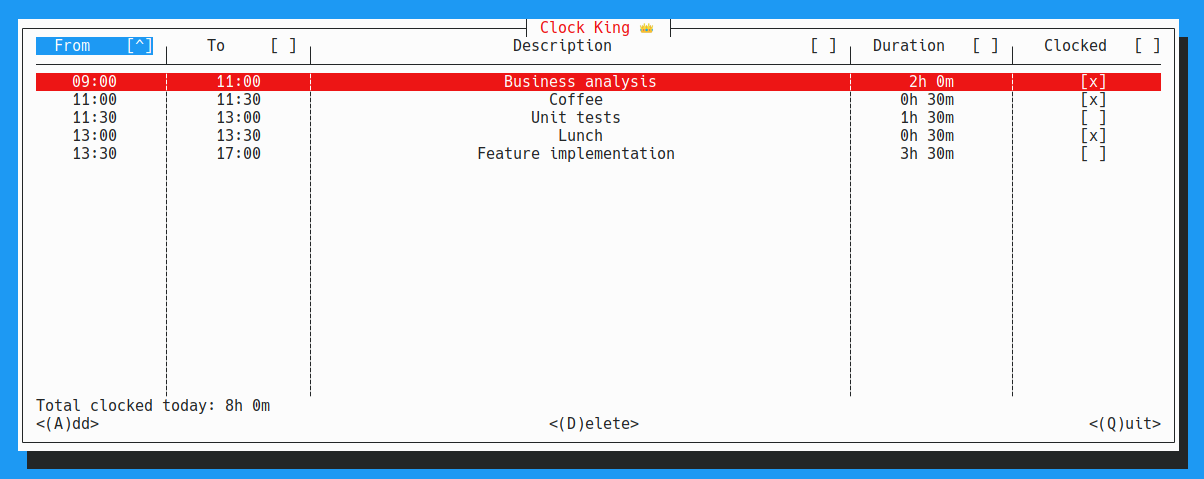
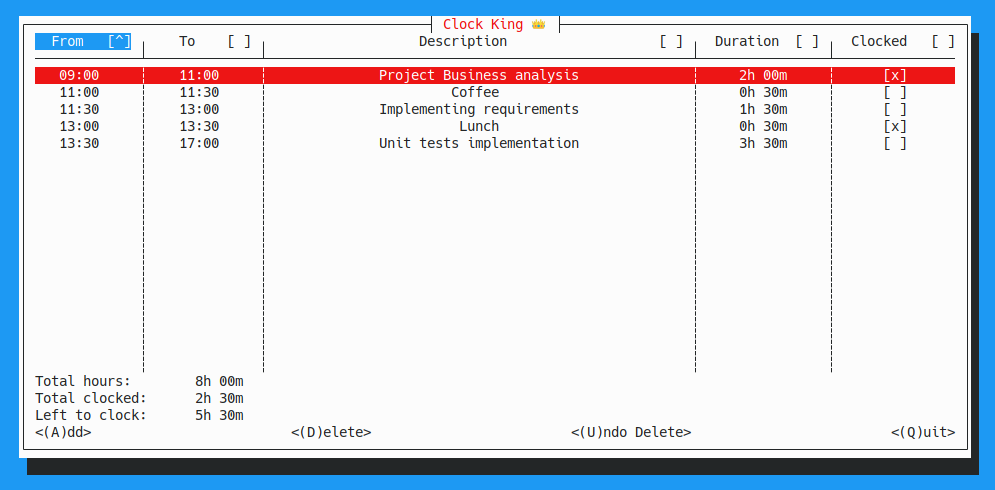
Add undo functionality

Changed region(s): [[0.0, 0.0292, 0.997, 0.9937]]

diff --git a/src/main.rs b/src/main.rs
@@ -73,6 +73,7 @@ impl TableViewItem<ClockEntryColumn> for ClockEntry {
 
 fn main() -> Result<(), Box<dyn Error>> {
     let mut siv = Cursive::default();
+    siv.set_user_data(GlobalContext::new());
 
     let mut table: TableView<ClockEntry, ClockEntryColumn> = TableView::<ClockEntry, ClockEntryColumn>::new()
         .column(ClockEntryColumn::From, ClockEntryColumn::From.as_str(), |c| {c.width_percent(10).align(HAlign::Center) })
@@ -97,6 +98,7 @@ fn main() -> Result<(), Box<dyn Error>> {
                             .min_size((100,20))
                     ).on_event(Key::Del, |s| delete_current_entry(s))
                         .on_event('d', |s| delete_current_entry(s))
+                        .on_event('u', |s| undo_delete(s))
                         .on_event(' ',|s| mark_current_entry_as_clocked(s))
                         .on_event('a', |s| add_new_entry(s))
                 )
@@ -118,9 +120,11 @@ fn main() -> Result<(), Box<dyn Error>> {
                 .child(
                     LinearLayout::new(Orientation::Horizontal)
                         .child(Button::new("(A)dd", |s| add_new_entry(s)))
-                        .child(DummyView.fixed_width(50))
+                        .child(DummyView.fixed_width(25))
                         .child(Button::new("(D)elete", |s| delete_current_entry(s)))
-                        .child(DummyView.fixed_width(50))
+                        .child(DummyView.fixed_width(25))
+                        .child(Button::new("(U)ndo Delete", |s| undo_delete(s)))
+                        .child(DummyView.fixed_width(25))
                         .child(Button::new("(Q)uit", |s| s.quit()))
                 )
         ).title("Clock King 👑")
@@ -166,14 +170,28 @@ fn delete_current_entry(s: &mut Cursive) {
             "Are you sure?",
             |s| {
                 s.pop_layer();
-                s.call_on_name(CLOCK_ENTRIES_TABLE, move |t: &mut TableView<ClockEntry, ClockEntryColumn>| {
-                    t.item().map(|index| t.remove_item(index));
+                let deleted = s.call_on_name(CLOCK_ENTRIES_TABLE, move |t: &mut TableView<ClockEntry, ClockEntryColumn>| {
                     let items = t.borrow_items();
                     db::save_to_db(items);
+                    t.item().map(|index| t.remove_item(index)).flatten()
                 }).unwrap();
+                s.user_data::<GlobalContext>().map(|it| it.delete(deleted));
                 update_stats(s)
             }
         ));
+}
+
+fn undo_delete(s: &mut Cursive) {
+    s.user_data::<GlobalContext>().map(|it| {
+        it.undo()
+    }).flatten()
+        .map(|deleted| {
+        s.call_on_name(CLOCK_ENTRIES_TABLE, move |t: &mut TableView<ClockEntry, ClockEntryColumn>| {
+            t.insert_item(deleted);
+            db::save_to_db(t.borrow_items());
+        });
+    });
+    update_stats(s);
 }
 
 fn update_stats(s: &mut Cursive) {

diff --git a/src/model.rs b/src/model.rs
@@ -1,5 +1,34 @@
+use std::collections::VecDeque;
 use chrono::{Duration, NaiveTime};
 use serde::{Deserialize, Serialize};
+
+const UNDO_BUFFER_SIZE: usize = 20;
+
+#[derive(Serialize, Deserialize, Debug, Clone)]
+pub struct GlobalContext {
+    pub deleted: VecDeque<ClockEntry>,
+}
+
+impl GlobalContext {
+    pub fn new() -> GlobalContext {
+        GlobalContext {
+            deleted: VecDeque::new(),
+        }
+    }
+
+    pub fn delete(&mut self, clock_entry: Option<ClockEntry>) {
+        clock_entry.map(|it| {
+            if self.deleted.len() >= UNDO_BUFFER_SIZE {
+                self.deleted.pop_front();
+            }
+            self.deleted.push_back(it);
+        });
+    }
+
+    pub fn undo(&mut self) -> Option<ClockEntry> {
+        self.deleted.pop_back()
+    }
+}
 
 #[derive(Serialize, Deserialize, Debug, Clone)]
 pub struct ClockEntry {
